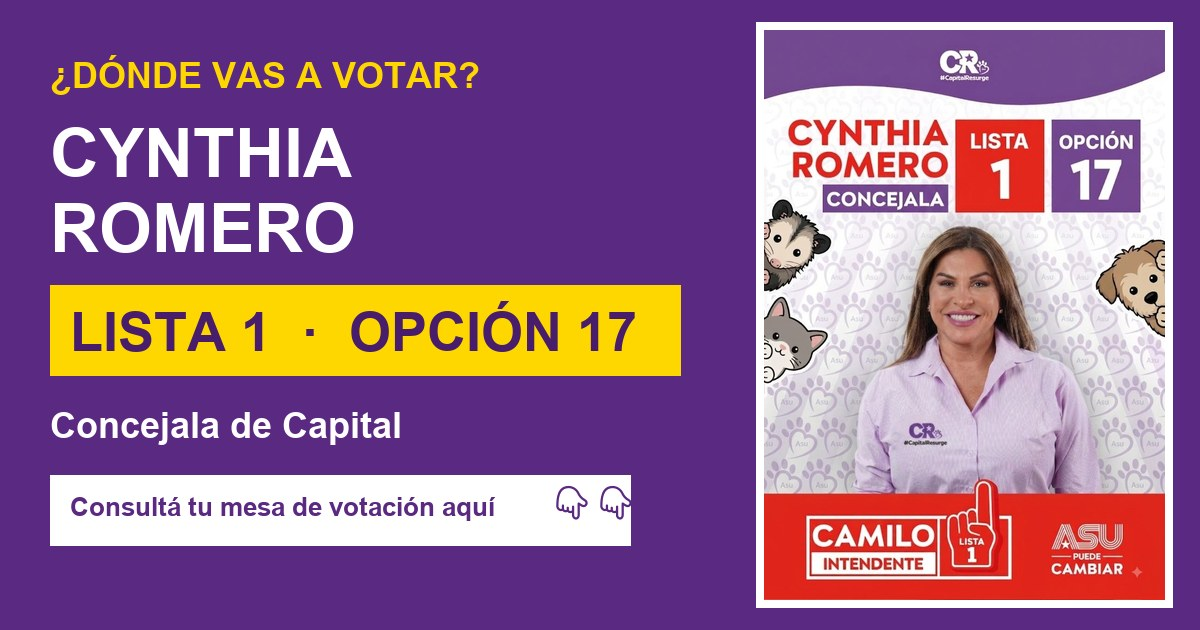
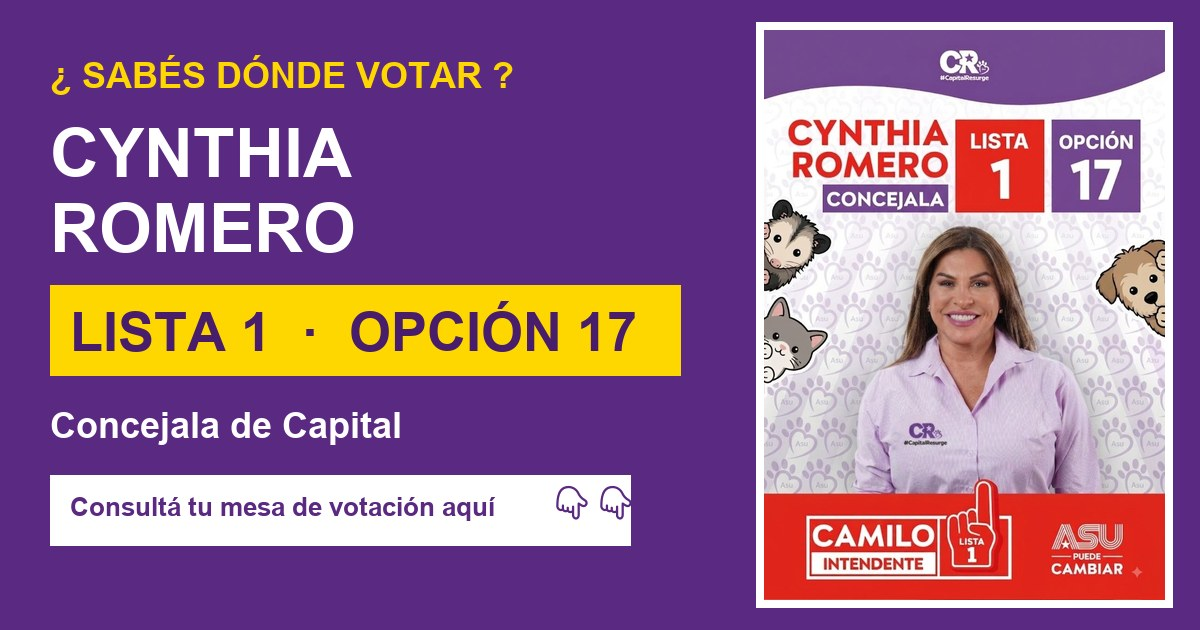
fix: optimizar imagen cynthia.jpg (153kb) y meta tags para previsualizacion whatsapp

Changed region(s): [[0.0617, 0.0905, 0.4317, 0.1508]]

diff --git a/index.html b/index.html
@@ -3,21 +3,21 @@
 <head>
   <meta charset="UTF-8" />
   <meta name="viewport" content="width=device-width, initial-scale=1.0" />
-  <title>¿Dónde vas a votar? — Cynthia Romero</title>
+  <title>¿Sabés dónde votar? — Cynthia Romero</title>
   <meta property="og:site_name"   content="Padrón Electoral" />
-  <meta property="og:title"       content="¿Dónde vas a votar?" />
+  <meta property="og:title"       content="¿Sabés dónde votar?" />
   <meta property="og:description" content="👇👇 Ingresá tu cédula y encontrá tu mesa al instante · Cynthia Romero Lista 1 Opción 17" />
-  <meta property="og:image"       content="https://dondevoto.netlify.app/og_share.jpg?v=6" />
-  <meta property="og:image:secure_url" content="https://dondevoto.netlify.app/og_share.jpg?v=6" />
+  <meta property="og:image"       content="https://dondevoto.netlify.app/og_share.jpg?v=7" />
+  <meta property="og:image:secure_url" content="https://dondevoto.netlify.app/og_share.jpg?v=7" />
   <meta property="og:image:type"   content="image/jpeg" />
   <meta property="og:image:width"  content="1200" />
   <meta property="og:image:height" content="630" />
   <meta property="og:url"         content="https://dondevoto.netlify.app" />
   <meta property="og:type"        content="website" />
   <meta name="twitter:card"        content="summary_large_image" />
-  <meta name="twitter:title"       content="¿Dónde vas a votar?" />
+  <meta name="twitter:title"       content="¿Sabés dónde votar?" />
   <meta name="twitter:description" content="👇👇 Ingresá tu cédula y encontrá tu mesa al instante · Cynthia Romero Lista 1 Opción 17" />
-  <meta name="twitter:image"       content="https://dondevoto.netlify.app/og_share.jpg?v=6" />
+  <meta name="twitter:image"       content="https://dondevoto.netlify.app/og_share.jpg?v=7" />
   <link href="https://fonts.googleapis.com/css2?family=Montserrat:wght@400;600;700;900&display=swap" rel="stylesheet" />
   <style>
     :root {
@@ -337,7 +337,7 @@
 <body>
 
 <div class="header">
-  <h1>¿Dónde<br>vas a votar?</h1>
+  <h1>¿Sabés<br>dónde votar?</h1>
   <p>Ingresá tu cédula y encontrá tu mesa al instante</p>
 </div>
 
